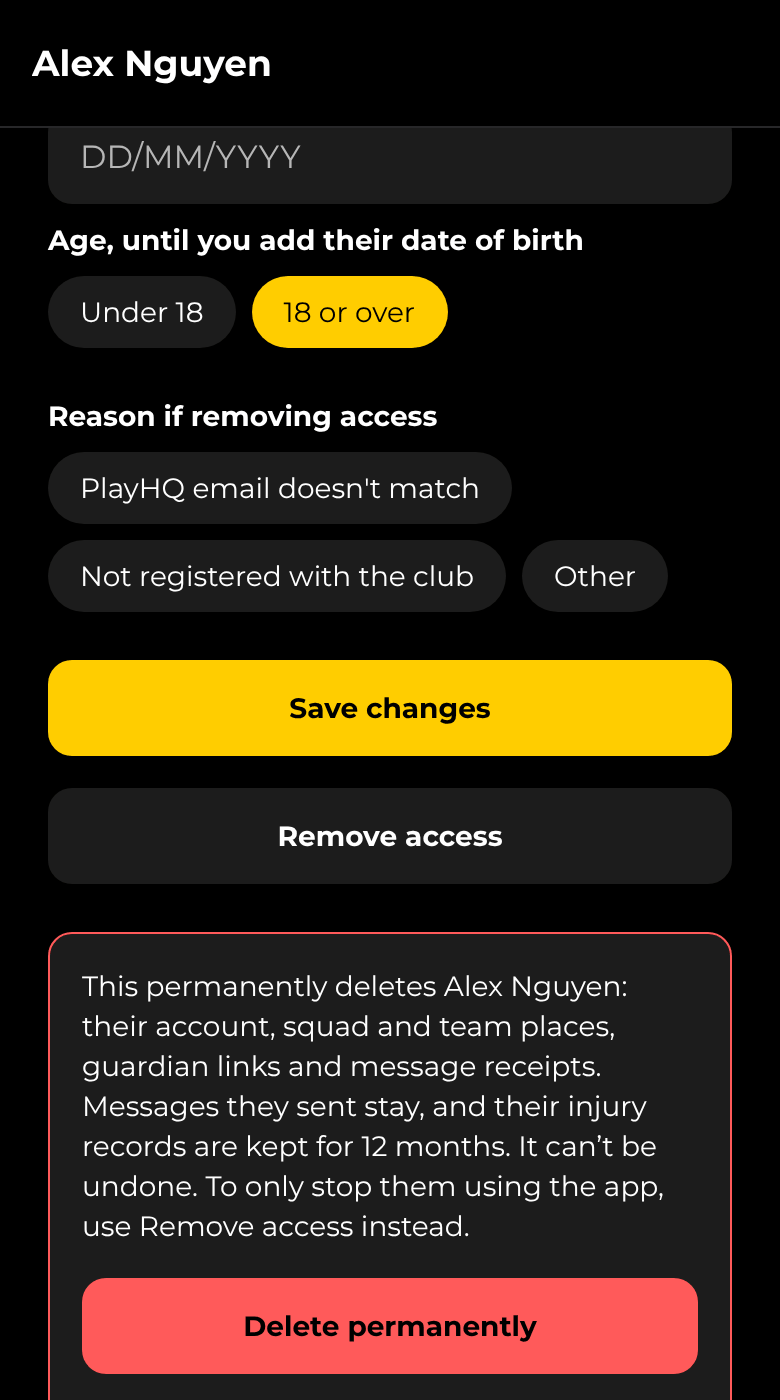
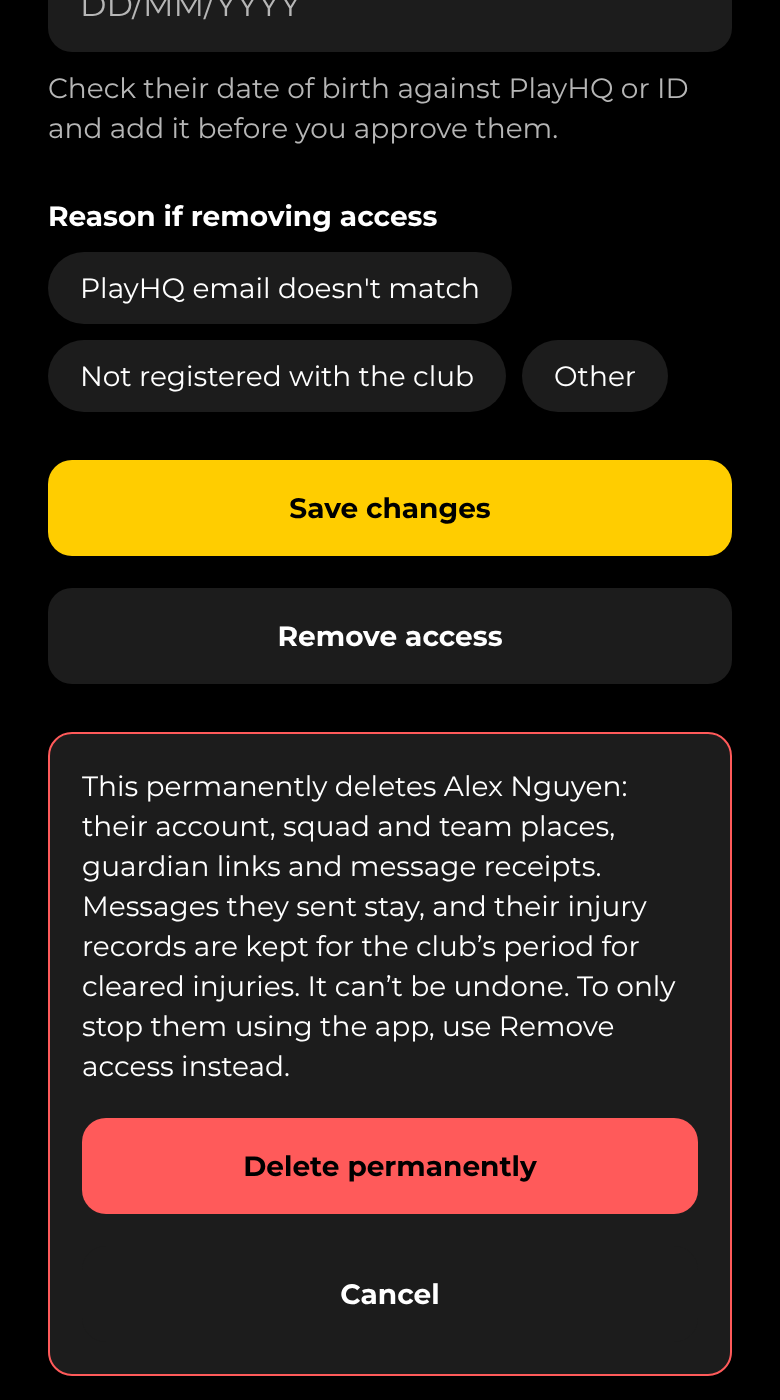
Block deleting a member while a concern names them
An admin is told why; the member is only asked to contact an admin, so a
concern about them isn't given away. The delete warning no longer says
injury records are kept for 12 months.

Claude-Session: https://claude.ai/code/session_019iUFcqU2ZXgfBUYjK9vwwP

diff --git a/src/__tests__/admin-member-actions.test.tsx b/src/__tests__/admin-member-actions.test.tsx
@@ -1105,12 +1105,22 @@ describe('deleting a member', () => {
     await press('Delete member');
     expect(
       screen.getByText(
-        'This permanently deletes Sample coach: their account, squad and team places, guardian links and message receipts. Messages they sent stay, and their injury records are kept for 12 months. It can’t be undone. To only stop them using the app, use Remove access instead.',
+        'This permanently deletes Sample coach: their account, squad and team places, guardian links and message receipts. Messages they sent stay, and their injury records are kept for the club’s period for cleared injuries. It can’t be undone. To only stop them using the app, use Remove access instead.',
       ),
     ).toBeTruthy();
     await press('Delete permanently');
     expect(adminWrites()).toEqual([['admin_delete_member', { p_profile_id: 'coach' }]]);
     expect(back).toHaveBeenCalledTimes(1);
+  });
+
+  it('says why when a concern names the member, and stays on their page', async () => {
+    await openMember(p('coach'), {
+      rpcErrors: { admin_delete_member: 'A concern names this member, so their account and records are kept while it does.' },
+    });
+    await press('Delete member');
+    await press('Delete permanently');
+    expect(screen.getByText('A concern names this member, so their account and records are kept while it does.')).toBeTruthy();
+    expect(back).not.toHaveBeenCalled();
   });
 
   it('doesn’t mention Remove access for a request that was never approved', async () => {

diff --git a/src/app/admin/[id].tsx b/src/app/admin/[id].tsx
@@ -1392,7 +1392,7 @@ export default function MemberScreen() {
       {!isSelf ? (
         <ConfirmDelete
           title="Delete member"
-          warning={`This permanently deletes ${member.full_name || member.email || 'this member'}: their account, squad and team places, guardian links and message receipts. Messages they sent stay, and their injury records are kept for 12 months. It can’t be undone.${member.status === 'approved' ? ' To only stop them using the app, use Remove access instead.' : ''}`}
+          warning={`This permanently deletes ${member.full_name || member.email || 'this member'}: their account, squad and team places, guardian links and message receipts. Messages they sent stay, and their injury records are kept for the club’s period for cleared injuries. It can’t be undone.${member.status === 'approved' ? ' To only stop them using the app, use Remove access instead.' : ''}`}
           confirmTitle="Delete permanently"
           onConfirm={deleteMember}
           busy={deleting}

diff --git a/src/__tests__/account-screens.test.tsx b/src/__tests__/account-screens.test.tsx
@@ -186,6 +186,16 @@ describe('deleting the account', () => {
     expect(signOut()).toHaveBeenCalled();
   });
 
+  it('asks a member the club must keep to contact an admin, without saying why', async () => {
+    await open({ rpcErrors: { delete_my_account: 'Your account can’t be deleted at the moment. Please contact a club admin.' } });
+    fireEvent.press(screen.getByText('Delete my account'));
+    fireEvent.press(screen.getByText('Delete my account permanently'));
+    await settle();
+    expect(screen.getByText('Your account can’t be deleted at the moment. Please contact a club admin.')).toBeTruthy();
+    expect(screen.queryByText(/concern names/i)).toBeNull();
+    expect(signOut()).not.toHaveBeenCalled();
+  });
+
   it('when deleting fails, says why and stays signed in', async () => {
     await open({ rpcErrors: { delete_my_account: 'Admins can’t delete their own account.' } });
     fireEvent.press(screen.getByText('Delete my account'));

diff --git a/docs/user-guide.md b/docs/user-guide.md
@@ -648,7 +648,8 @@ shows each one and where it's up to: Received, Referred, Being looked into or Cl
 you're in: your profile, your squad and team places, guardian links, your personal tasks and your
 messages inbox. Messages you sent to a group stay with the people who received them. Tap
 **Delete my account**, then **Delete my account permanently** to confirm. If you sign in again
-later, you'll need to ask to join again.
+later, you'll need to ask to join again. Now and then the club has to keep an account for a legal
+matter; then the app says it can't be deleted at the moment and asks you to contact a club admin.
 
 The club keeps your injury records after you leave, where only the committee and admins can see
 them, for its keep period for injuries (7 years unless the club chose 3, 5 or 10), counted from
@@ -2223,8 +2224,10 @@ Working With Children Check whichever role it is, and that includes athletes und
   attendance, training certificates, message receipts, consents, code of conduct acceptances,
   policy acknowledgements, exemptions (ended on the day), stand-downs, Screening Unit notices, and
   who viewed their records. Each goes when its own keep period ends (see [Keeping
-  records](#keeping-records)). Messages they sent stay, and their injury records are kept for 12
-  months. In the attendance report and a message's read receipts they show with "(deleted)" after
+  records](#keeping-records)). Messages they sent stay, and their injury records are kept for the
+  club's period for cleared injuries, counted from when they left. You can't delete a member a
+  concern names: the app says so, and their account and records stay while the concern names
+  them. The member is only told to contact an admin. In the attendance report and a message's read receipts they show with "(deleted)" after
   their name.
 
 <img src="user-guide/member-title.png" width="210" alt="A committee member's page with their preferred name and title">
@@ -3402,6 +3405,9 @@ Working With Children Check, and another admin must do it.
   certificates, message receipts, consents, code of conduct acceptances, exemptions and who viewed
   their records stay under the name they had, until each one's own keep period ends, so the club
   can still show who was with which children and that its people were trained and screened.
+  A member a concern names can't be deleted at all, by an admin or by themselves, so nothing
+  about them is lost while the concern stands; they're only asked to contact an admin, so the
+  concern isn't given away.
 - **Child abuse and serious crimes go out, not in.** The register prompts the club to refer them to
   Police and the governing body straight away, and records that it did.
 - **Each club's data is kept apart**, in that club's own database.
